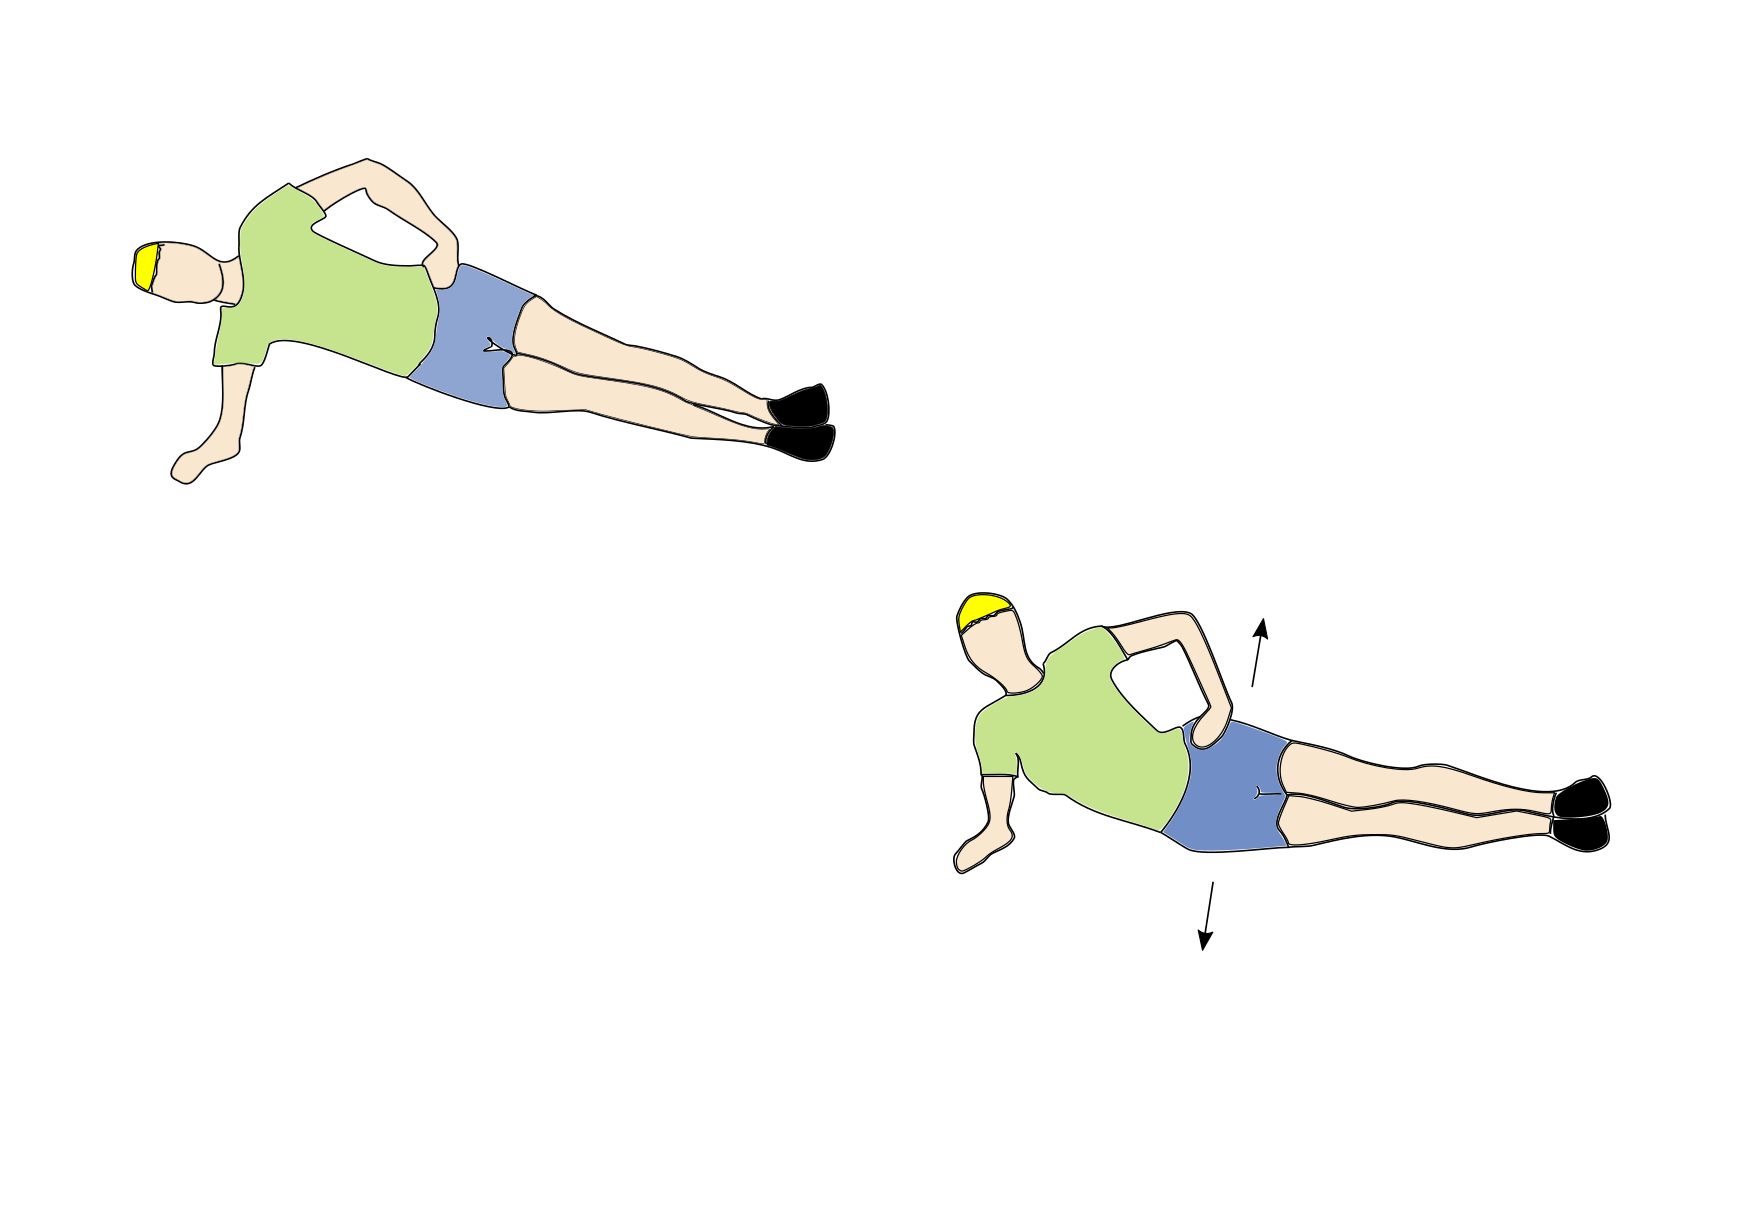
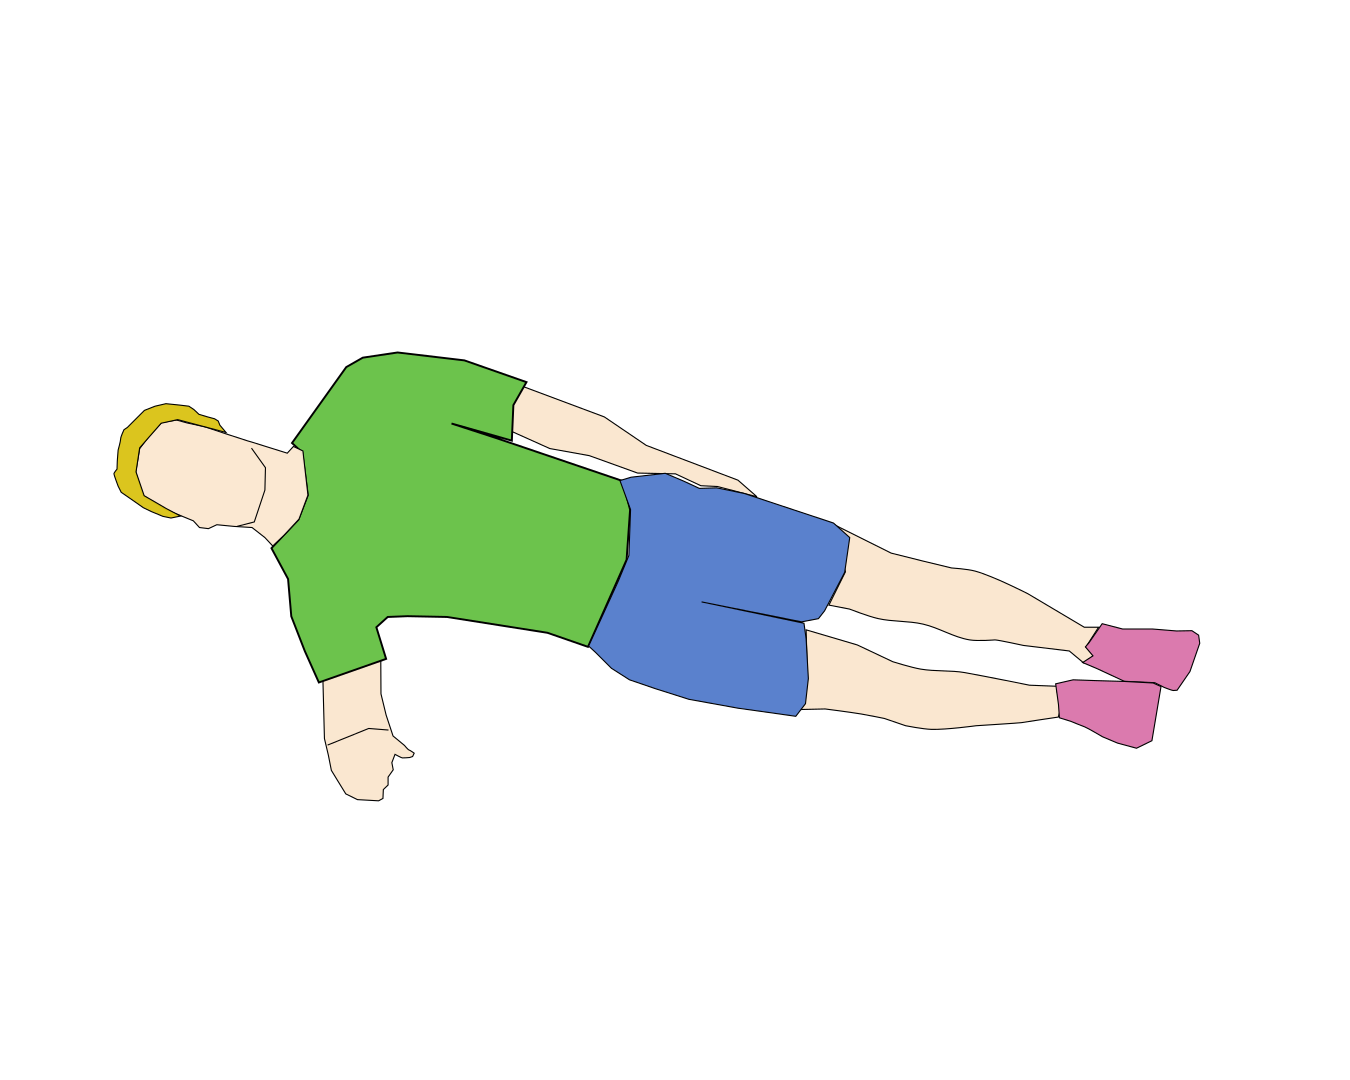
finished plank dip

Changed region(s): [[0.0622, 0.1222, 0.9333, 0.7639], [0.6844, 0.7333, 0.7156, 0.7639]]

diff --git a/WorkoutModule/Models/DefinitionFactory.cs b/WorkoutModule/Models/DefinitionFactory.cs
@@ -254,12 +254,12 @@ namespace WorkoutModule.Models
                 Description = "Effektive übung für die Beinachse und die seitliche Rumpfmuskulatur",
                 Execution = new List<string>()
                 {
-                    "Lege dich seitlich auf den linken Arm, Ellenbogen unter der Schulter!",
-                    "Hebe deine Körpermitte vom Boden ab und stütze dich dabei auf Ellenbogen und Fußkante!",
+                    "Lege dich seitlich auf den linken Arm, Ellenbogen unter der Schulter.",
+                    "Hebe deine Körpermitte vom Boden ab und stütze dich dabei auf Ellenbogen und Fußkante.",
                     "Achte darauf, dass der Körper eine gerade Linie bildet!",
-                    "Wechsle anschließend die Seite!"
+                    "Nach Abschluss der Übung auf einer Seite, wechsle zur anderen Seite."
                 },
-                Duration = 30,
+                Duration = 20,
                 ImageFile = "side_plank_base.png",
                 SwitchLeftRight = true,
                 SwitchTime = 5,
@@ -273,14 +273,14 @@ namespace WorkoutModule.Models
                 Description = "Effektive übung für die Beinachse und die seitliche Rumpfmuskulatur",
                 Execution = new List<string>()
                 {
-                    "Lege dich seitlich auf den linken Arm, Ellenbogen unter der Schulter!",
-                    "Hebe deine Körpermitte vom Boden ab und stütze dich dabei auf Ellenbogen und Fußkante!",
+                    "Lege dich seitlich auf den linken Arm, Ellenbogen unter der Schulter.",
+                    "Hebe deine Körpermitte vom Boden ab und stütze dich dabei auf Ellenbogen und Fußkante.",
                     "Achte darauf, dass der Körper eine gerade Linie bildet!",
-                    "Senke und hebe deine Hüfte kontrolliert nach unten und oben! Halte die Grundposition stabil!",
-                    "Wechsle anschließend die Seite!"
+                    "Senke und hebe deine Hüfte kontrolliert nach unten und oben. Halte die Grundposition stabil!",
+                    "Nach Abschluss der Übung auf einer Seite, wechsle zur anderen Seite."
                 },
-                Duration = 60,
-                ImageFile = "side_plank_dip.png",
+                Duration = 30,
+                ImageFile = "side_plank_dip.gif",
                 SwitchLeftRight = true,
                 SwitchTime = 5,
                 Level = Level.Moderate
@@ -293,15 +293,15 @@ namespace WorkoutModule.Models
                 Description = "Effektive übung für die Beinachse und die seitliche Rumpfmuskulatur",
                 Execution = new List<string>()
                 {
-                    "Lege dich seitlich auf den linken Arm, Ellenbogen unter der Schulter!",
-                    "Hebe deine Körpermitte vom Boden ab und stütze dich dabei auf Ellenbogen und Fußkante!",
+                    "Lege dich seitlich auf den linken Arm, Ellenbogen unter der Schulter.",
+                    "Hebe deine Körpermitte vom Boden ab und stütze dich dabei auf Ellenbogen und Fußkante.",
                     "Achte darauf, dass der Körper eine gerade Linie bildet!",
-                    "Hebe das oberes Bein vom Boden ab und halte es oben.",
-                    "Wechsle anschließend die Seite!"
-                    
+                    "Hebe das obere Bein vom Boden ab und halte es oben!",
+                    "Nach Abschluss der Übung auf einer Seite, wechsle zur anderen Seite."
+
                 },
                 Duration = 30,
-                ImageFile = "side_plank_single_leg.png",
+                ImageFile = "side_plank_leg_raise.png",
                 SwitchLeftRight = true,
                 Level = Level.Advanced
             });
@@ -313,15 +313,14 @@ namespace WorkoutModule.Models
                 Description = "Effektive übung für die Beinachse und die seitliche Rumpfmuskulatur",
                 Execution = new List<string>()
                 {
-                    "Lege dich seitlich auf den linken Arm, Ellenbogen unter der Schulter!",
-                    "Hebe deine Körpermitte vom Boden ab und stütze dich dabei auf Ellenbogen und Fußkante!",
+                    "Lege dich seitlich auf den linken Arm, Ellenbogen unter der Schulter.",
+                    "Hebe deine Körpermitte vom Boden ab und stütze dich dabei auf Ellenbogen und Fußkante.",
                     "Achte darauf, dass der Körper eine gerade Linie bildet!",
-                    "Hebe das oberes Bein vom Boden ab und halte es oben.",
-                    "Senke und hebe deine Hüfte kontrolliert nach unten und oben! Halte die Grundposition stabil!",
-                    "Wechsle anschließend die Seite!"
+                    "Hebe das obere Bein und bewege die Hüfte kontrolliert auf und ab, halte die Grundposition stabil!",
+                    "Nach Abschluss der Übung auf einer Seite, wechsle zur anderen Seite."
                 },
-                Duration = 60,
-                ImageFile = "side_plank_single_leg_dip.png",
+                Duration = 45,
+                ImageFile = "side_plank_leg_raise_dip.gif",
                 SwitchLeftRight = true,
                 Level = Level.Epic
             });
